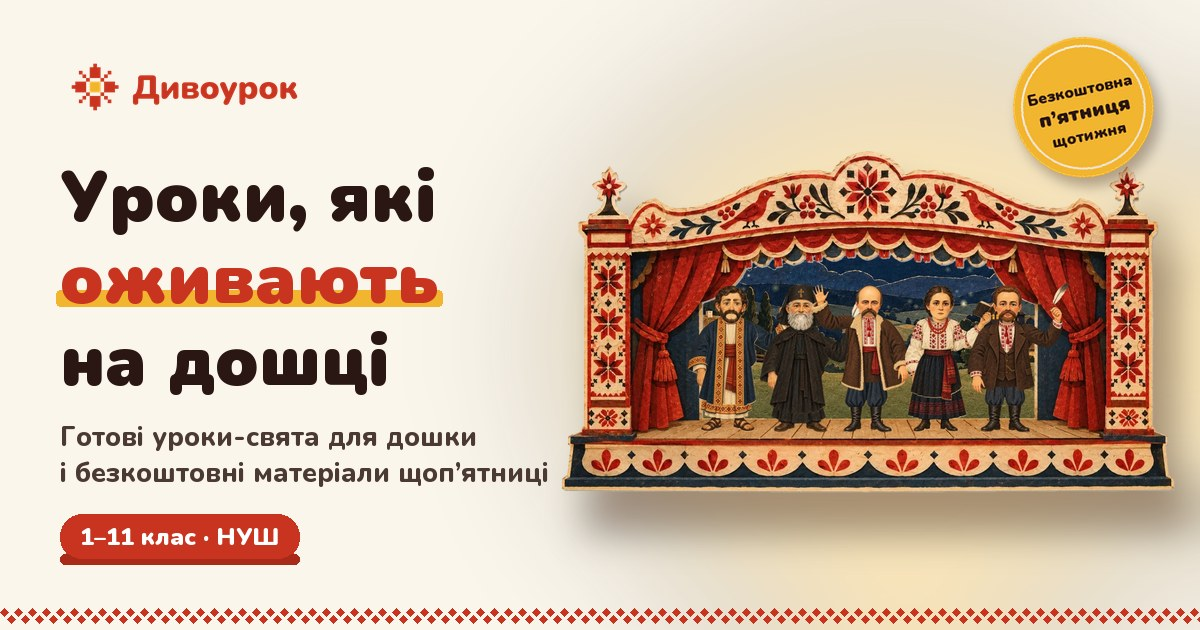
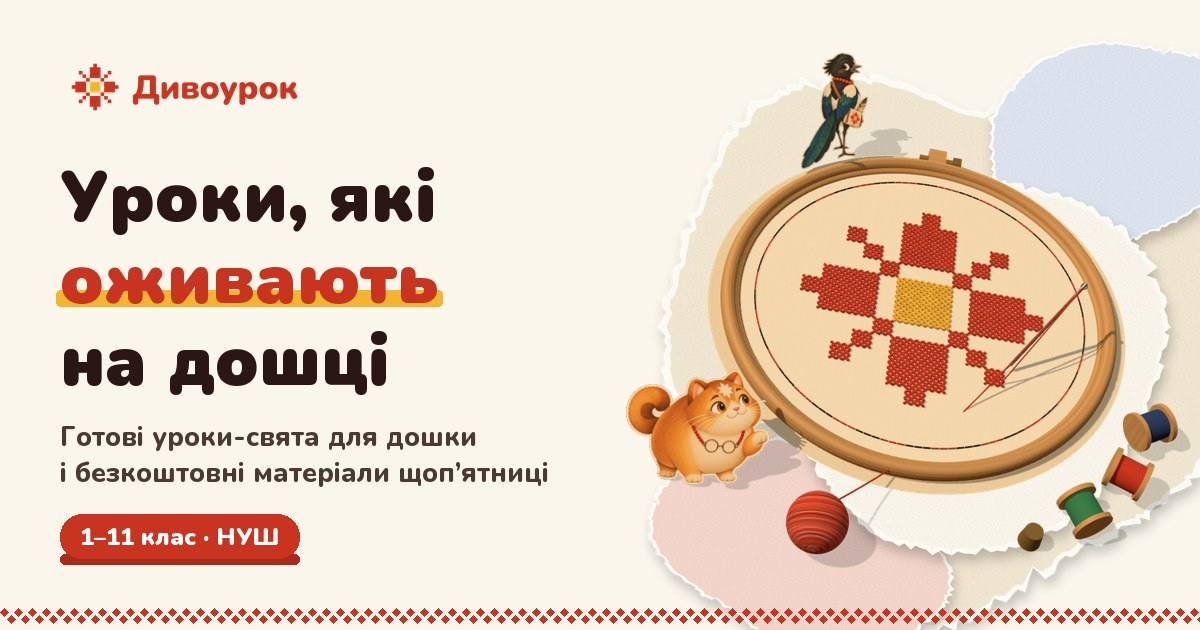
feat(site): rebuild the share image around the 3D embroidery hero
og-brand.jpg now pairs the brand headline with the hero scene: the
torn-paper layers and a transparent frame of the hoop with Сорока,
Воркіт and the still life (sources in scene3d/og). The og:image URL
carries a content hash so Facebook and the edge cache pick up the new
picture. The vertep stage still that the old image used is removed.

diff --git a/public/index.html b/public/index.html
@@ -12,7 +12,7 @@
 <meta property="og:title" content="Дивоурок — уроки, які оживають на дошці">
 <meta property="og:description" content="Готові уроки-свята для дошки й безкоштовні матеріали щоп’ятниці. 1–11 клас, НУШ.">
 <meta property="og:url" content="https://dyvourok.com.ua/">
-<meta property="og:image" content="https://dyvourok.com.ua/img/site/og-brand.jpg">
+<meta property="og:image" content="https://dyvourok.com.ua/img/site/og-brand.jpg?v=f5bca99a45">
 <meta property="og:image:width" content="1200">
 <meta property="og:image:height" content="630">
 <meta property="og:locale" content="uk_UA">

diff --git a/scripts/make_og_brand.py b/scripts/make_og_brand.py
@@ -1,4 +1,4 @@
-"""Загальна картинка для поширення сайту (og:image, 1200×630): заголовок бренду + сцена вертепу.
+"""Загальна картинка для поширення сайту (og:image, 1200×630): заголовок бренду + 3D-вишивка з першого екрана.
 Запуск:  python scripts/make_og_brand.py  →  public/img/site/og-brand.jpg"""
 import os
 
@@ -20,26 +20,21 @@ def font(weight, size):
 img = Image.new('RGBA', (W, H), PAPER)
 d = ImageDraw.Draw(img)
 
-# тепла пляма за сценою
-glow = Image.new('RGBA', (W, H), (0, 0, 0, 0))
-ImageDraw.Draw(glow).ellipse((560, 40, 1260, 640), fill=(242, 181, 48, 70))
-img.alpha_composite(glow.filter(ImageFilter.GaussianBlur(70)))
+# праворуч: рваний папір і 3D-вишивка з маскотами — знімки сцени першого екрана
+# (scene3d/og/bg.webp — шари фону scripts/make_hoop_bg.py, scene3d/og/hoop.webp — прозорий кадр js/hoop.js)
+def place(path, size, cx, cy):
+    im = Image.open(os.path.join(ROOT, 'scene3d', 'og', path)).convert('RGBA')
+    im = im.resize((size, size), Image.LANCZOS)
+    img.alpha_composite(im, (int(cx - size / 2), int(cy - size / 2)))
+
+
+place('bg.webp', 800, 930, 330)
+place('hoop.webp', 600, 912, 320)
 
 # вишита смуга знизу (як .stitch на сайті)
 for x in range(0, W, 14):
     for y0, dx in ((H - 22, 0), (H - 15, 7)):
         d.polygon([(x + dx, y0 + 4), (x + dx + 4, y0), (x + dx + 8, y0 + 4), (x + dx + 4, y0 + 8)], fill=RED)
-
-# сцена вертепу з тінню
-# сцена з п'ятьма героями — знімок живого canvas головної (img/site/stage-heroes.webp)
-stage = Image.open(os.path.join(PUB, 'img', 'site', 'stage-heroes.webp')).convert('RGBA')
-sw = 620
-stage = stage.resize((sw, round(stage.height * sw / stage.width)), Image.LANCZOS)
-sx, sy = W - sw - 22, 150
-sh = Image.new('RGBA', (W, H), (0, 0, 0, 0))
-sh.paste((60, 30, 15, 110), (sx + 20, sy + 40), stage.getchannel('A'))
-img.alpha_composite(sh.filter(ImageFilter.GaussianBlur(18)))
-img.alpha_composite(stage, (sx, sy))
 
 # логотип
 logo = Image.open(os.path.join(BRAND, 'kit', 'dyvourok-logo.png')).convert('RGBA')
@@ -74,20 +69,6 @@ d.rounded_rectangle((x, y, x + tw + 40, y + 46), radius=23, fill=RED)
 d.rounded_rectangle((x, y + 40, x + tw + 40, y + 50), radius=5, fill=RED_DARK)
 d.rounded_rectangle((x, y, x + tw + 40, y + 44), radius=22, fill=RED)
 d.text((x + 20, y + 6), t, font=pill, fill='white')
-
-# наліпка «Безкоштовна п’ятниця» над сценою
-st = Image.new('RGBA', (230, 230), (0, 0, 0, 0))
-sd = ImageDraw.Draw(st)
-sd.ellipse((8, 8, 222, 222), fill=YELLOW)
-sd.ellipse((20, 20, 210, 210), outline=(255, 255, 255, 200), width=3)
-f1, f2 = font(1000, 30), font(900, 24)
-for txt, f, yy in (('Безкоштовна', f2, 72), ('п’ятниця', f1, 102), ('щотижня', f2, 142)):
-    sd.text((115 - sd.textlength(txt, font=f) / 2, yy), txt, font=f, fill=INK)
-st = st.resize((150, 150), Image.LANCZOS).rotate(12, resample=Image.BICUBIC, expand=True)
-shs = Image.new('RGBA', st.size, (0, 0, 0, 0))
-shs.paste((60, 30, 15, 90), (0, 0), st.getchannel('A'))
-img.alpha_composite(shs.filter(ImageFilter.GaussianBlur(6)), (W - 200, 26))
-img.alpha_composite(st, (W - 206, 18))
 
 out = os.path.join(PUB, 'img', 'site', 'og-brand.jpg')
 img.convert('RGB').save(out, quality=88)
